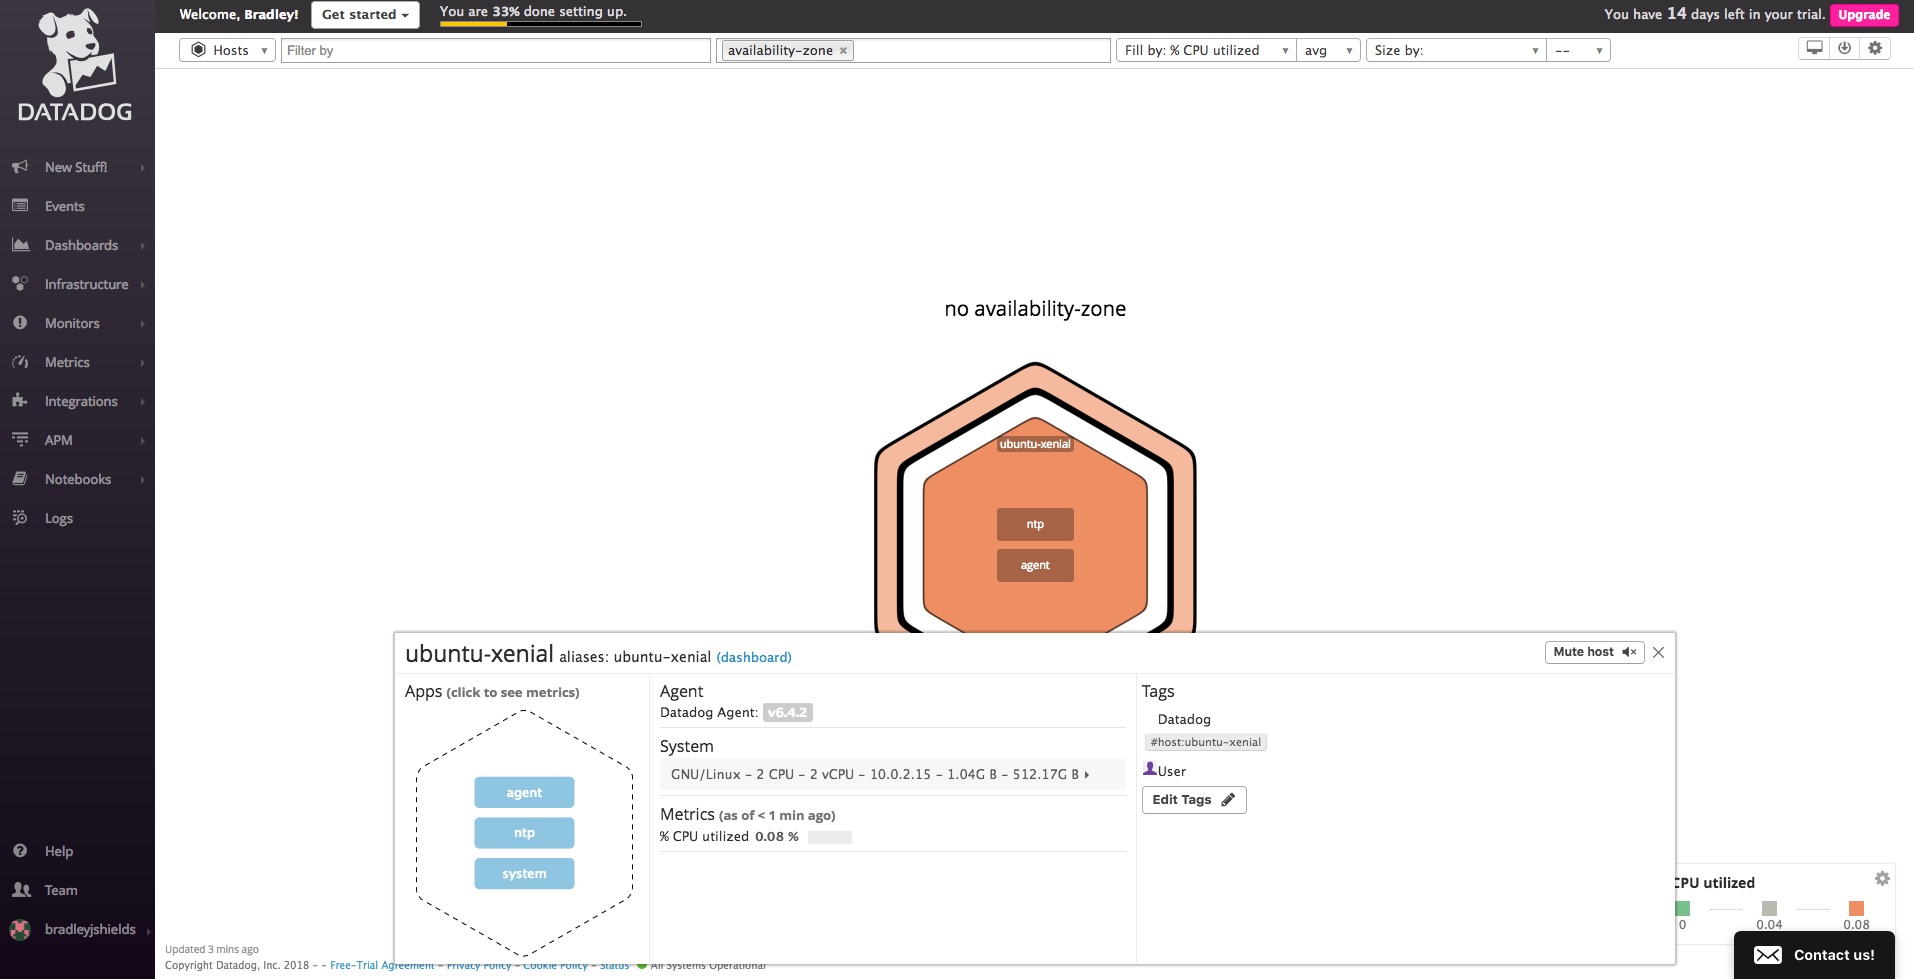
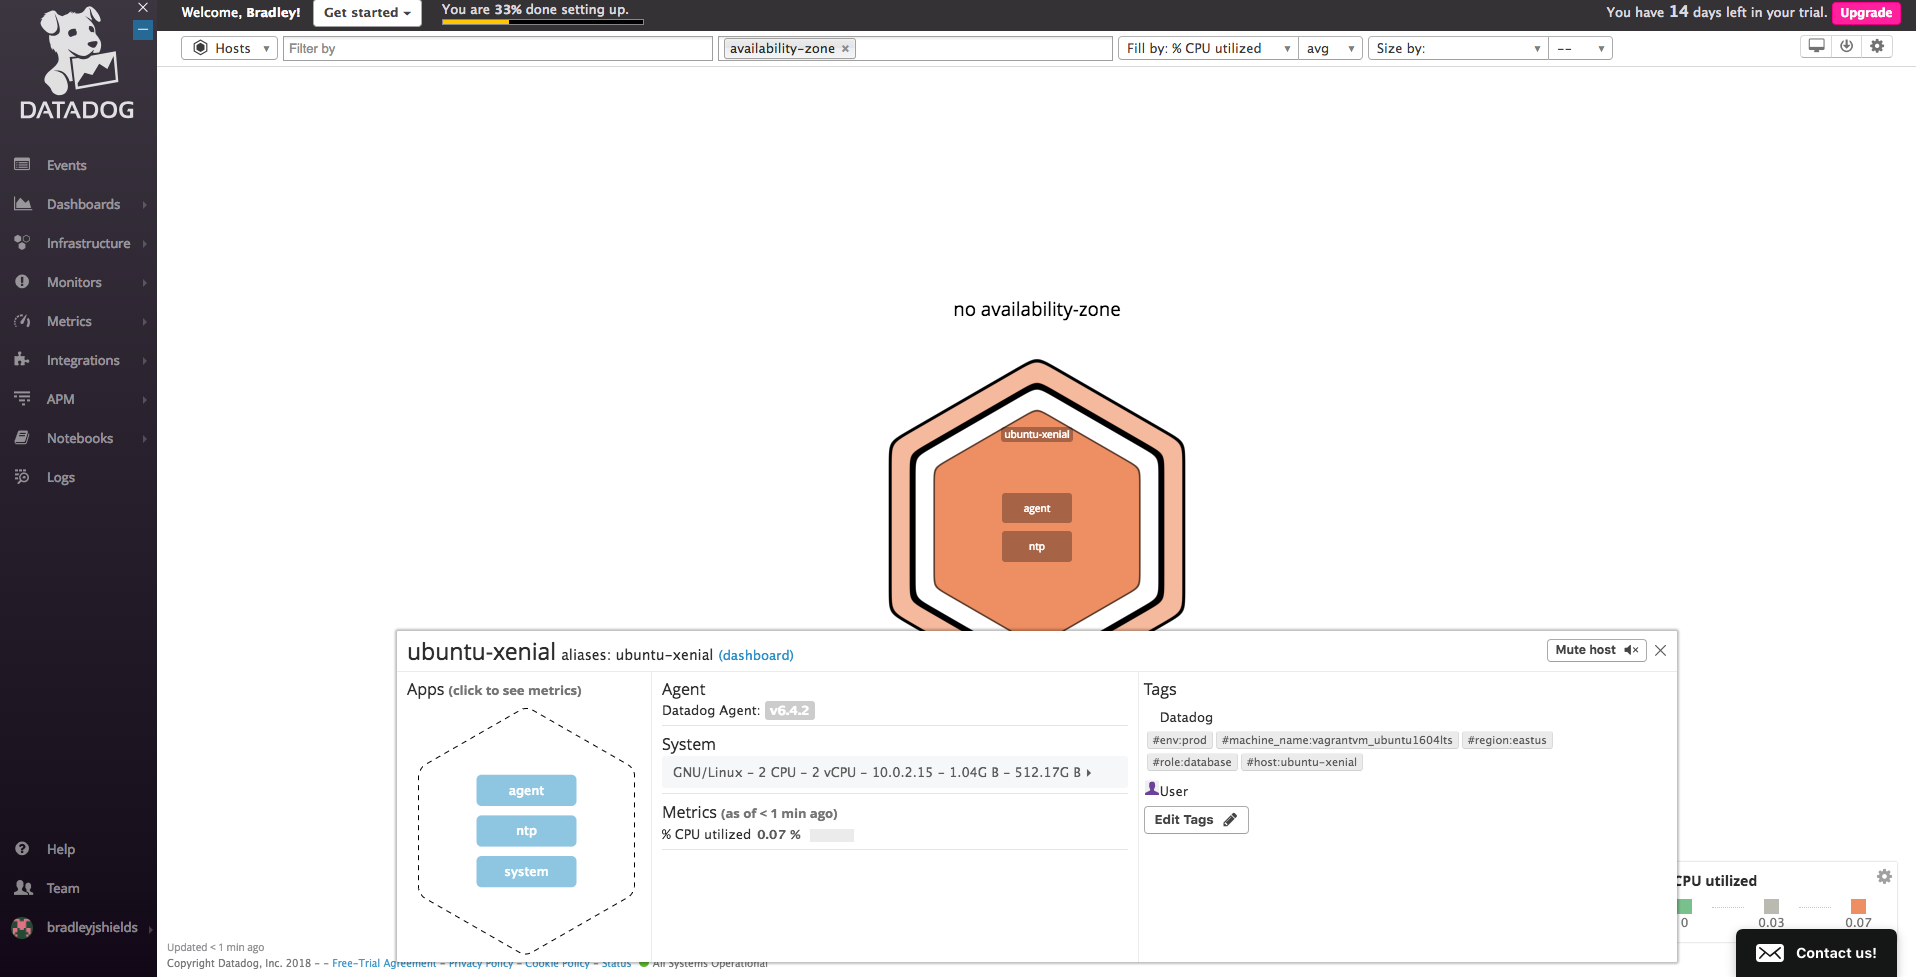
Fixed config.yaml file, realized the Agent service wasn't starting properly. Now, the HostMap correctly shows the tags set in my config.yaml.

diff --git a/datadog/answers.md b/datadog/answers.md
@@ -95,7 +95,7 @@ I attempted to use **vi** to open the datadog.yaml, but was denied due to permis
 ###### Step 3: Find Hostmap in Datadog, provide screenshot
 Back in the browser walk-through for setting up Datadog, from my notes on the Datadog 101 - 1 - Overview [video](https://www.youtube.com/watch?v=uI3YN_cnahk) the Hostmap should be in the Sidebar menu. From **Infrastructure > Hostmap**, 
 
-![Hostmap with VM, tags](images/1_1_Hostmap.png)
+![Hostmap with VM, tags (??)](images/1_1_Hostmap.png)
 
 ** Install a database on your machine (MongoDB, MySQL, or PostgreSQL) and then install the respective Datadog integration for that database.** 
 
@@ -113,7 +113,7 @@ I've seen this before - it's related to the default auth_socket plugin (MySQL do
 
 ![Auth_Socket](/images/1_2_AuthSocketSQL)
 
-The solution is to grant permissions to the user and use sql that way (i.e., as vagrant@ubuntu-xenial). So, after doing that:
+The solution is to grant permissions to the user and use SQL that way (i.e., as vagrant@ubuntu-xenial). So,
 
     vagrant@ubuntu-xenial:~$ sudo mysql -u root
     mysql> USE mysql
@@ -125,4 +125,39 @@ The solution is to grant permissions to the user and use sql that way (i.e., as 
 
 Then, ```mysqladmin -u vagrant version``` correctly outputs the version, indicating that our MySQL service is up, running, and user accessible. ```mysql -u vagrant``` can now get us to the MySQL monitor to interact with our MySQL service as necessary.
 
-### NOW, install user integration 
+###### Step 2: Install the Corresponding Integration for that Database (MySQL)
+
+From the [MySQL Integration Documentation](https://docs.datadoghq.com/integrations/mysql/), MySQL integration comes with the Datadog Agent installation. For configuration, ```conf.d/mysql.d/conf.yaml``` must be editted in the Agent's [configuration directory](https://docs.datadoghq.com/agent/faq/agent-configuration-files/#agent-configuration-directory), which for Linux is ```/etc/datadog-agent/conf.d/```.
+
+Before doing that, the SQL must be prepared by creating a user for Datadog (actual documentation would of course never list the password, as I've done here). These commands use @'localhost', which will work for our single host proof of concept:
+
+    vagrant@ubuntu-xenial:/etc/datadog-agent/conf.d$ sudo mysql -u root
+    mysql> CREATE USER 'datadog'@'localhost' IDENTIFIED BY 'datadog';
+
+As in the documentation, user creation is verified via:
+
+    mysql -u datadog --password=datadog -e "show status" | \
+    grep Uptime && echo -e "\033[0;32mMySQL user - OK\033[0m" || \
+    echo -e "\033[0;31mCannot connect to MySQL\033[0m"
+    mysql -u datadog --password=datadog -e "show slave status" && \
+    echo -e "\033[0;32mMySQL grant - OK\033[0m" || \
+    echo -e "\033[0;31mMissing REPLICATION CLIENT grant\033[0m"
+
+Which then yields an "access denied" error, as expected. To grant the necessary replication client privileges, I log in as root (this didn't work when logging into MySQL as Datadog):
+
+    vagrant@ubuntu-xenial:/etc/datadog-agent/conf.d$ sudo mysql -u root
+    mysql> GRANT REPLICATION CLIENT ON *.* TO 'datadog'@'localhost' WITH MAX_USER_CONNECTIONS 5;
+    mysql> GRANT PROCESS ON *.* TO 'datadog'@'localhost';
+
+To enable metric collection from the performance_schema database:
+
+    mysql> show databases like 'performance_schema';
+    mysql> GRANT SELECT ON performance_schema.* TO 'datadog'@'localhost';
+
+And finally, to start gathering MySQL metrics, we need add some code config file. However, only the example file conf.yaml.example exists in ```/etc/datadog-agent/conf.d/mysql.d```, so I copy the example to make my own version via```cp conf.yaml.example conf.yaml```. This creates conf.yaml, but the file belongs to root. Finally, I use ```sudo chown dd-agent:dd-agent conf.yaml``` to change ownership properly to the dd-agent.
+
+Now, we can modify to ```mysql.d/conf.yaml```, replacing the commented-out lines in the example with those listed in the documentation (using **sudo vi**, as the file is read-only). My conf.yaml then looks like:
+
+![My conf.yaml](/images/1_2_SQLMetrics_confYamlFile.png)
+
+*Aside:* After restarting the Agent, I notice in the Datadog dashboard that I can't see my MySQL integration info on my host. I was curious before, when my tags didn't show up in the HostMap, despite being set in my config.yaml file. ```sudo datadog-agent status``` reports that it cannot load the Datadog config file, specifically related to mapping values under the "host tags" section. Opening the config.yaml, I see that I've left an extra space in-between one of my tag key:value pairs. After fixing that, then running ```sudo service datadog-agent start```, and finally the status query again, I can see the Agent is up and running correctly, this time. At this point, I've gone back and updated the HostMap image for my answer under Part 1 of this section, "Collecting Metrics."
